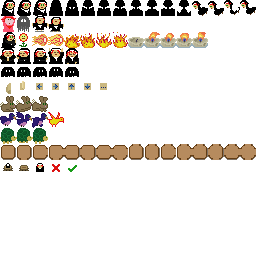
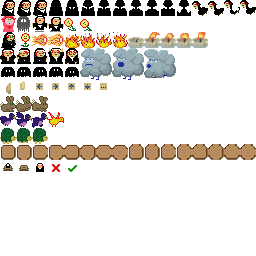
wind and respell

Changed region(s): [[0.3125, 0.1875, 0.6875, 0.3125], [0.25, 0.0625, 0.375, 0.125], [0.0625, 0.125, 0.125, 0.1875]]

diff --git a/src/game/sprite/types/sprite_wind.c b/src/game/sprite/types/sprite_wind.c
@@ -1,0 +1,115 @@
+#include "game/penance.h"
+
+#define WIND_STAGE_IDLE 0
+#define WIND_STAGE_INHALE 1
+#define WIND_STAGE_EXHALE 2
+
+#define PARTICLEC 40
+
+struct sprite_wind {
+  struct sprite hdr;
+  int stage;
+  double stageclock;
+  struct particle {
+    int16_t x,y;
+  } particlev[PARTICLEC];
+};
+
+#define SPRITE ((struct sprite_wind*)sprite)
+
+/* Be careful with these parameters!
+ */
+
+static void wind_begin_IDLE(struct sprite *sprite) {
+  SPRITE->stage=WIND_STAGE_IDLE;
+  SPRITE->stageclock=0.850;
+}
+
+static void wind_begin_INHALE(struct sprite *sprite) {
+  SPRITE->stage=WIND_STAGE_INHALE;
+  SPRITE->stageclock=0.250;
+}
+
+static void wind_begin_EXHALE(struct sprite *sprite) {
+  SPRITE->stage=WIND_STAGE_EXHALE;
+  SPRITE->stageclock=1.250;
+  int16_t ylo=(int16_t)((sprite->y-0.5)*TILESIZE);
+  int16_t xhi=(int16_t)((sprite->x-1.0)*TILESIZE);
+  struct particle *particle=SPRITE->particlev;
+  int i=PARTICLEC;
+  for (;i-->0;particle++) {
+    particle->x=rand()%xhi;
+    particle->y=ylo+rand()%(TILESIZE<<1);
+  }
+}
+
+static int _wind_init(struct sprite *sprite,const uint8_t *def,int defc) {
+  wind_begin_IDLE(sprite);
+  return 0;
+}
+
+static void wind_blow(struct sprite *sprite,double elapsed) {
+  int i=GRP(VISIBLE)->spritec;
+  while (i-->0) {
+    struct sprite *victim=GRP(VISIBLE)->spritev[i];
+    if (victim->x>=sprite->x-0.5) continue;
+    if (victim->y<sprite->y-0.5) continue;
+    if (victim->y>sprite->y+1.5) continue; // My (x,y) is 1/4 from top left, I'm 2x2 tiles.
+    if (victim->type==&sprite_type_hero) ;
+    else if (victim->type==&sprite_type_fleshpuppet) ;
+    else if (victim->type==&sprite_type_fireball) {
+      sprite_fireball_blow_out(victim);
+      continue;
+    } else {
+      // All others, no impact.
+      continue;
+    }
+    double distance=victim->x/sprite->x; // Normalized, always <1
+    const double maximpact=40.0;
+    double impact=sqrt(distance)*maximpact;
+    if (victim->type==&sprite_type_hero) {
+      hero_apply_wind(victim,-impact*elapsed);
+    } else {
+      victim->x-=impact*elapsed;
+    }
+  }
+}
+
+static void _wind_update(struct sprite *sprite,double elapsed) {
+  if ((SPRITE->stageclock-=elapsed)<=0.0) {
+    switch (SPRITE->stage) {
+      case WIND_STAGE_IDLE: wind_begin_INHALE(sprite); break;
+      case WIND_STAGE_INHALE: wind_begin_EXHALE(sprite); break;
+      default: wind_begin_IDLE(sprite); break;
+    }
+  }
+  if (SPRITE->stage==WIND_STAGE_EXHALE) wind_blow(sprite,elapsed);
+}
+
+static void _wind_render(struct sprite *sprite,int16_t addx,int16_t addy) {
+  int16_t dstx=(int16_t)((sprite->x-0.5)*TILESIZE);
+  int16_t dsty=(int16_t)((sprite->y-0.5)*TILESIZE);
+  int16_t srcx=(sprite->tileid&0x0f)*TILESIZE;
+  int16_t srcy=(sprite->tileid>>4)*TILESIZE;
+  srcx+=SPRITE->stage*(TILESIZE<<1);
+  graf_draw_decal(&g.graf,texcache_get_image(&g.texcache,sprite->imageid),dstx,dsty,srcx,srcy,TILESIZE<<1,TILESIZE<<1,0);
+  if (SPRITE->stage==WIND_STAGE_EXHALE) {
+    struct particle *particle=SPRITE->particlev;
+    int i=PARTICLEC;
+    for (;i-->0;particle++) {
+      particle->x-=6;
+      if (particle->x<0) {
+        particle->x=rand()%dstx;
+      }
+      graf_draw_rect(&g.graf,particle->x,particle->y,4,1,0xf0f0ff80);
+    }
+  }
+}
+
+const struct sprite_type sprite_type_wind={
+  .name="wind",
+  .objlen=sizeof(struct sprite_wind),
+  .init=_wind_init,
+  .update=_wind_update,
+  .render=_wind_render,
+};

diff --git a/src/game/hero/sprite_hero.c b/src/game/hero/sprite_hero.c
@@ -36,7 +36,16 @@ void hero_animate(struct sprite *sprite,double elapsed) {
     
   // Flower.
   } else if (SPRITE->mode==HERO_MODE_FLOWER) {
-    sprite->tileid=0x21;
+    if (SPRITE->wind) {
+      SPRITE->wind=0;
+      if ((SPRITE->animclock-=elapsed)<=0) {
+        SPRITE->animclock+=0.150;
+        if (++(SPRITE->animframe)>=2) SPRITE->animframe=0;
+      }
+      sprite->tileid=0x14+SPRITE->animframe;
+    } else {
+      sprite->tileid=0x21;
+    }
     sprite->xform=0;
     
   // Fireball.
@@ -292,7 +301,7 @@ static void _hero_update(struct sprite *sprite,double elapsed) {
     case HERO_MODE_HURT: hero_update_HURT(sprite,elapsed); break;
     // The transform modes are similar enough to FREE that we borrow it:
     case HERO_MODE_RABBIT: hero_update_FREE(sprite,elapsed,10.0); break;
-    case HERO_MODE_BIRD: hero_update_FREE(sprite,elapsed,8.0); break;
+    case HERO_MODE_BIRD: hero_update_FREE(sprite,elapsed,6.0); break;
     case HERO_MODE_TURTLE: hero_update_FREE(sprite,elapsed,3.0); break;
     case HERO_MODE_BIRDHURT: hero_update_HURT(sprite,elapsed); break;
   }
@@ -380,4 +389,26 @@ int hero_is_human() {
       return 1;
   }
   return 0;
+}
+
+/* Apply wind.
+ */
+ 
+void hero_apply_wind(struct sprite *sprite,double dx) {
+  if (!sprite||(sprite->type!=&sprite_type_hero)) return;
+  SPRITE->wind=1;
+  if (SPRITE->mode==HERO_MODE_FLOWER) return;
+  if (SPRITE->mode==HERO_MODE_HURT) return;
+  if (SPRITE->mode==HERO_MODE_BIRDHURT) return;
+  if (SPRITE->mode==HERO_MODE_HOLE) return;
+  if (SPRITE->mode==HERO_MODE_TREE) SPRITE->mode=HERO_MODE_FREE;
+  sprite->x+=dx;
+  hero_rectify_position(sprite);
+  if ((SPRITE->mode!=HERO_MODE_BIRD)&&(SPRITE->mode!=HERO_MODE_GHOST)) {
+    int cellx=(int)sprite->x; if (sprite->x<0.0) cellx--;
+    int celly=(int)sprite->y; if (sprite->y<0.0) celly--;
+    if ((cellx!=SPRITE->cellx)||(celly!=SPRITE->celly)) {
+      hero_quantized_motion(sprite,cellx,celly);
+    }
+  }
 }

diff --git a/src/game/hero/hero_event.c b/src/game/hero/hero_event.c
@@ -152,6 +152,7 @@ static void hero_cast_fireball(struct sprite *sprite,double dx) {
   } else {
     SPRITE->facedir=DIR_W;
   }
+  SPRITE->respell=HERO_MODE_FIREBALL;
 }
  
 static void hero_cast_fireballl(struct sprite *sprite) { hero_cast_fireball(sprite,-1.0); }
@@ -162,6 +163,10 @@ static void hero_cast_fireballr(struct sprite *sprite) { hero_cast_fireball(spri
  
 static void hero_cast_flower(struct sprite *sprite) {
   SPRITE->mode=HERO_MODE_FLOWER;
+  SPRITE->respell=HERO_MODE_FLOWER;
+  SPRITE->wind=0;
+  SPRITE->animclock=0.0;
+  SPRITE->animframe=0;
   //TODO sound effect
 }
 
@@ -187,6 +192,7 @@ static void hero_cast_disembody(struct sprite *sprite) {
   SPRITE->ghost_mapid=g.map->rid;
   SPRITE->ghost_x=sprite->x;
   SPRITE->ghost_y=sprite->y;
+  SPRITE->respell=HERO_MODE_GHOST;
 }
 
 /* End ghost mode (by pressing South).
@@ -289,7 +295,11 @@ static void hero_dpad(struct sprite *sprite,int8_t dx,int8_t dy) {
  
 static void hero_action_begin(struct sprite *sprite) {
   switch (SPRITE->mode) {
-    case HERO_MODE_FREE: break; // Do whatever the button does normally... Nothing? There aren't items or anything.
+    case HERO_MODE_FREE: switch (SPRITE->respell) {
+        case HERO_MODE_FLOWER: hero_cast_flower(sprite); break;
+        case HERO_MODE_FIREBALL: hero_cast_fireball(sprite,(SPRITE->facedir==DIR_W)?-1.0:1.0); break;
+        case HERO_MODE_GHOST: hero_cast_disembody(sprite); break;
+      } break;
     case HERO_MODE_TREE: hero_end_tree(sprite); break;
     case HERO_MODE_HOLE: hero_end_hole(sprite); break;
     case HERO_MODE_GHOST: hero_end_ghost(sprite); break;

diff --git a/src/game/sprite/sprite.h b/src/game/sprite/sprite.h
@@ -122,6 +122,7 @@ extern const struct sprite_type sprite_type_fireball;
 extern const struct sprite_type sprite_type_bonfire;
 extern const struct sprite_type sprite_type_candle;
 extern const struct sprite_type sprite_type_terminator;
+extern const struct sprite_type sprite_type_wind;
 
 // ids get assigned in this order. Use the same as the ^ declarations above.
 #define FOR_EACH_SPRITE_TYPE \
@@ -131,11 +132,13 @@ extern const struct sprite_type sprite_type_terminator;
   _(fireball) \
   _(bonfire) \
   _(candle) \
-  _(terminator)
+  _(terminator) \
+  _(wind)
 
 const struct sprite_type *sprite_type_by_id(int id);
 
 void sprite_fireball_set_direction(struct sprite *sprite,double dx,double dy);
+void sprite_fireball_blow_out(struct sprite *sprite);
 void sprite_bonfire_set_ttl(struct sprite *sprite,double ttl);
 int sprite_candle_light(struct sprite *sprite); // 0 if invalid or already lit
 

diff --git a/src/game/sprite/types/sprite_fireball.c b/src/game/sprite/types/sprite_fireball.c
@@ -79,3 +79,11 @@ void sprite_fireball_set_direction(struct sprite *sprite,double dx,double dy) {
   else if (dy>0.0) sprite->xform=EGG_XFORM_SWAP;
   else if (dy<0.0) sprite->xform=EGG_XFORM_SWAP|EGG_XFORM_XREV;
 }
+
+/* Blow out.
+ */
+ 
+void sprite_fireball_blow_out(struct sprite *sprite) {
+  //TODO animate?
+  sprite_kill_later(sprite);
+}

diff --git a/src/game/hero/hero_internal.h b/src/game/hero/hero_internal.h
@@ -33,6 +33,8 @@ struct sprite_hero {
   double ghost_x,ghost_y;
   double hurtdx,hurtdy;
   double hurtclock;
+  int respell; // 0,HERO_MODE_GHOST,HERO_MODE_FIREBALL,HERO_MODE_FLOWER. Last foot spell cast.
+  int wind;
 };
 
 #define SPRITE ((struct sprite_hero*)sprite)

diff --git a/src/game/hero/hero.h b/src/game/hero/hero.h
@@ -13,4 +13,6 @@ void hero_map_changed(struct sprite *sprite);
 
 int hero_is_human();
 
+void hero_apply_wind(struct sprite *sprite,double dx);
+
 #endif

diff --git a/README.md b/README.md
@@ -11,12 +11,13 @@ For [GDEX Game Jam 2024](https://itch.io/jam/gdex-game-jam-2024), theme "FULL MO
 Required:
 - [x] Initial keystrokes can get lost during the hello fade-out.
 - [ ] Challenges:
-- - [ ] Wind that toggles on and off, so you have to turn into a flower when it's on.
+- - [x] Wind that toggles on and off, so you have to turn into a flower when it's on.
 - - [ ] Bullet hell that only a turtle can get thru alive.
 - - [ ] Multiple switches that you can't get between them fast enough, unless you're a rabbit. Introduce the switches first with an easier challenge.
 - [ ] Temple interior.
 - [x] Use the bridge somewhere, it's a shame not to.
 - [ ] Don't put anything burnable on the borders.
+- [x] Educate player about respell somehow.
 - [ ] Sound effects.
 - [ ] Allow hazard sprites to indicate explicit rejection direction.
 - [ ] Fireworks when transforming to/from animal.
